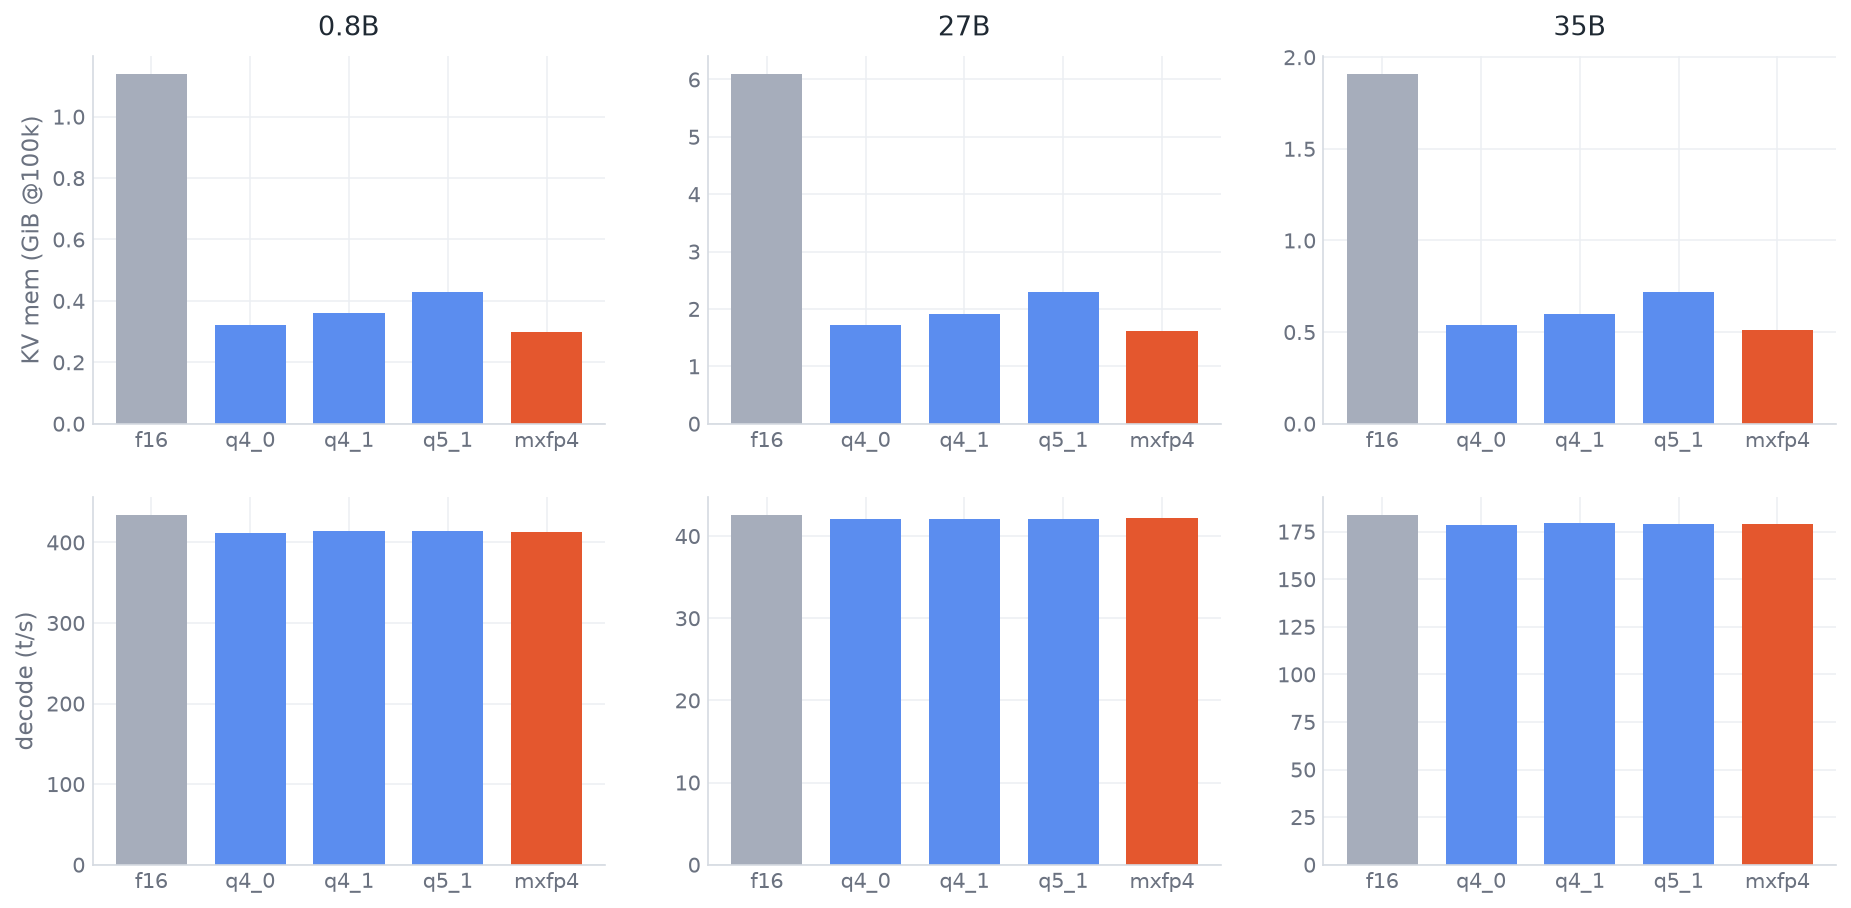
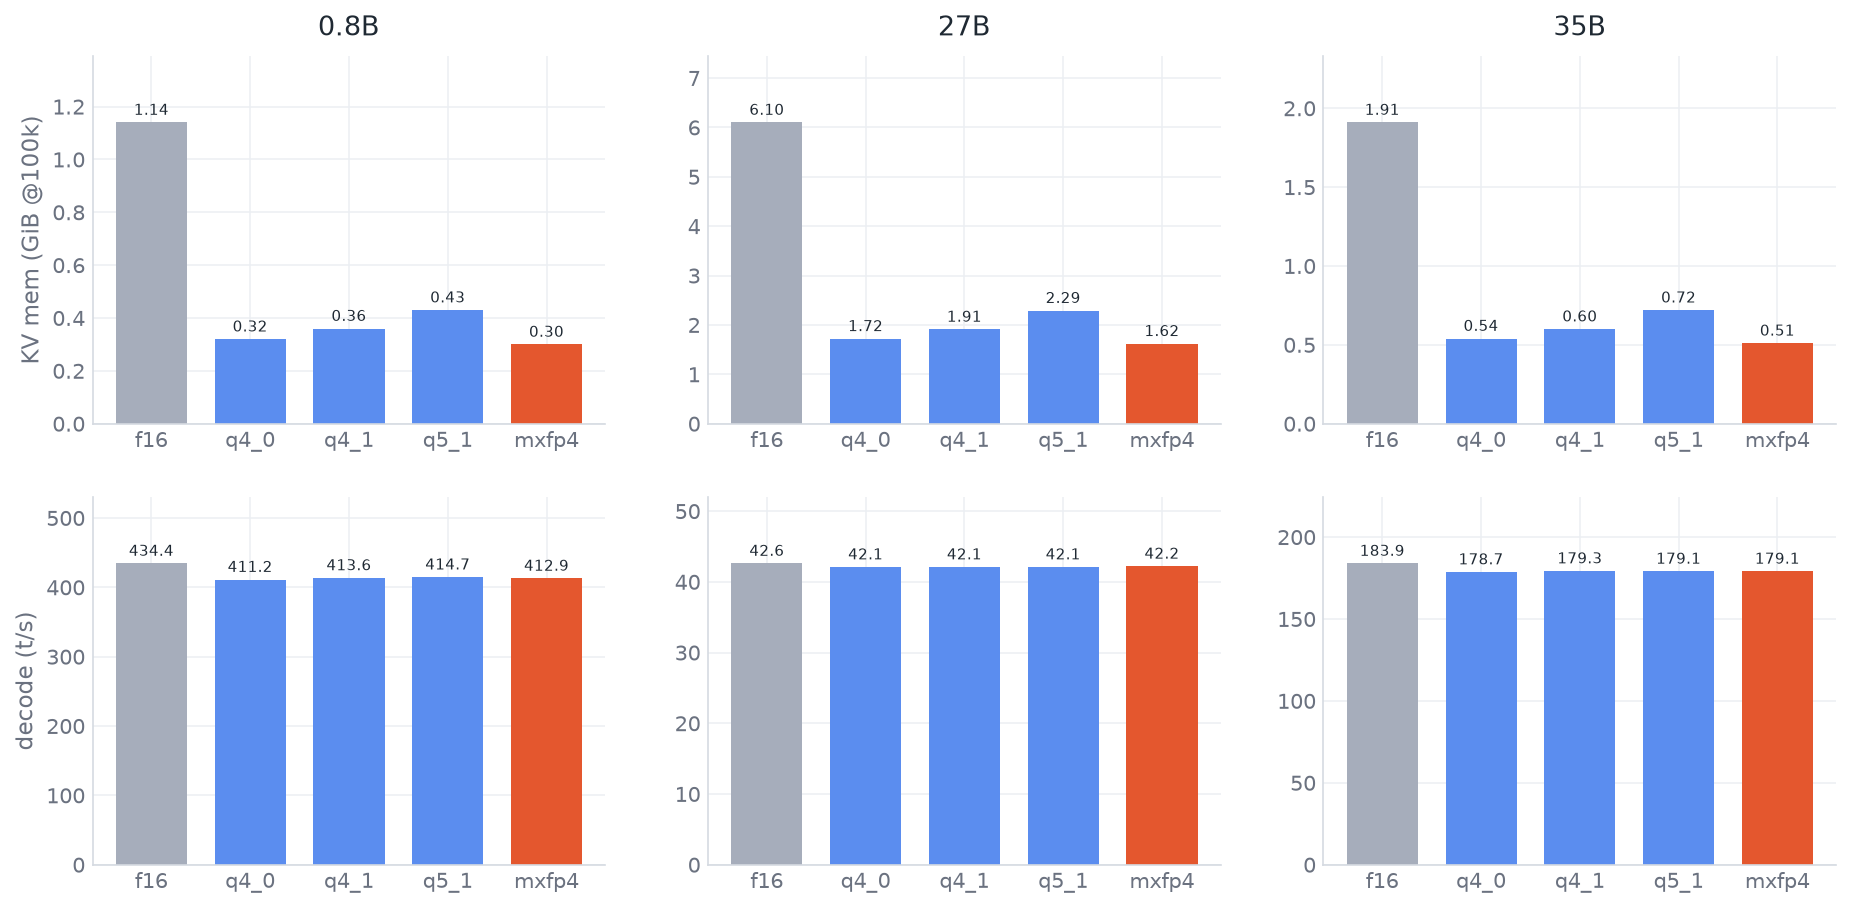
Add labels to PR charts: per-point quant names (ppl), bar value labels (kv)
- ppl-vs-size: small per-point quant-name labels (offset-tuned to fit the 4-bit cluster)
- kv-cache: value labels on memory + decode bars
- kl-top-p: quant names as x-ticks (already present)

diff --git a/charts.py b/charts.py
@@ -125,12 +125,19 @@ PPL = {
 
 
 def scatter_quant_points(ax, rows):
-    """Plot one model's quants: family (blue), mxfp4 (accent, larger), refs (gray, diamond)."""
-    fam_x, fam_y = [], []
-    acc_x, acc_y = [], []
-    moe_x, moe_y = [], []
-    ref_x, ref_y = [], []
+    """Plot one model's quants: family (blue), mxfp4 (accent, larger), refs (gray, diamond); label each point."""
+    # small per-point label offsets (dx, dy in points) to keep the tight 4-bit cluster legible
+    off = {
+        "bf16": (7, -15), "Q8_0": (7, -15), "q3ks": (7, 7),
+        "q5_1": (7, 9), "q5ks": (7, 9), "q4_1": (11, -13),
+        "q4ks": (6, 8), "q4_0": (7, -14), "iq4xs": (12, -1),
+        "mxfp4": (14, 4), "moe-recipe": (9, -16),
+    }
+    fam_x, fam_y, acc_x, acc_y, moe_x, moe_y, ref_x, ref_y = [], [], [], [], [], [], [], []
+    pts = []
     for (name, size, imx, noimx, is_ref) in rows:
+        disp = "moe-recipe" if name == "mxfp4-moe" else name
+        pts.append((size, imx, disp, is_ref, name in ("mxfp4", "mxfp4-moe")))
         if is_ref:
             ref_x.append(size); ref_y.append(imx)
         elif name == "mxfp4":
@@ -143,6 +150,11 @@ def scatter_quant_points(ax, rows):
     ax.scatter(ref_x, ref_y, s=54, marker="D", c=PALETTE["ref"], zorder=3, edgecolors="white", linewidths=0.6)
     ax.scatter(acc_x, acc_y, s=120, c=PALETTE["accent"], zorder=5, edgecolors="white", linewidths=1.0)
     ax.scatter(moe_x, moe_y, s=120, marker="D", c=PALETTE["accent"], zorder=5, edgecolors="white", linewidths=1.0)
+    for (x, y, disp, is_ref, is_mx) in pts:
+        dx, dy = off.get(disp, (7, 8))
+        col = PALETTE["muted"] if is_ref else (PALETTE["accent"] if is_mx else PALETTE["text"])
+        ax.annotate(disp, (x, y), textcoords="offset points", xytext=(dx, dy),
+                    fontsize=7, color=col, ha="left", va="bottom", zorder=6)
     return [
         Line2D([0], [0], marker="o", ls="", ms=9, mec="white", mfc=PALETTE["accent"], label="mxfp4 (all)"),
         Line2D([0], [0], marker="D", ls="", ms=9, mec="white", mfc=PALETTE["accent"], label="mxfp4 (MoE recipe)"),
@@ -192,10 +204,14 @@ def kv_cache():
     for col, (model, d) in enumerate(KV.items()):
         axm = ax[col]
         style_axes(axm, title=model, ylabel="KV mem (GiB @100k)" if col == 0 else None)
-        axm.bar(KV_TYPES, [d["mem"][t] for t in KV_TYPES], color=[kv_color(t) for t in KV_TYPES], width=0.72)
+        bm = axm.bar(KV_TYPES, [d["mem"][t] for t in KV_TYPES], color=[kv_color(t) for t in KV_TYPES], width=0.72)
+        axm.bar_label(bm, fmt="%.2f", fontsize=7, color=PALETTE["text"], padding=2)
+        axm.set_ylim(0, max(d["mem"].values()) * 1.22)
         axt = ax[3 + col]
         style_axes(axt, ylabel="decode (t/s)" if col == 0 else None)
-        axt.bar(KV_TYPES, [d["tg"][t] for t in KV_TYPES], color=[kv_color(t) for t in KV_TYPES], width=0.72)
+        bt = axt.bar(KV_TYPES, [d["tg"][t] for t in KV_TYPES], color=[kv_color(t) for t in KV_TYPES], width=0.72)
+        axt.bar_label(bt, fmt="%.1f", fontsize=7, color=PALETTE["text"], padding=2)
+        axt.set_ylim(0, max(d["tg"].values()) * 1.22)
     save(fig, "kv-cache.png")
 
 # ------------------------------------------------------------------ KL + top-p
